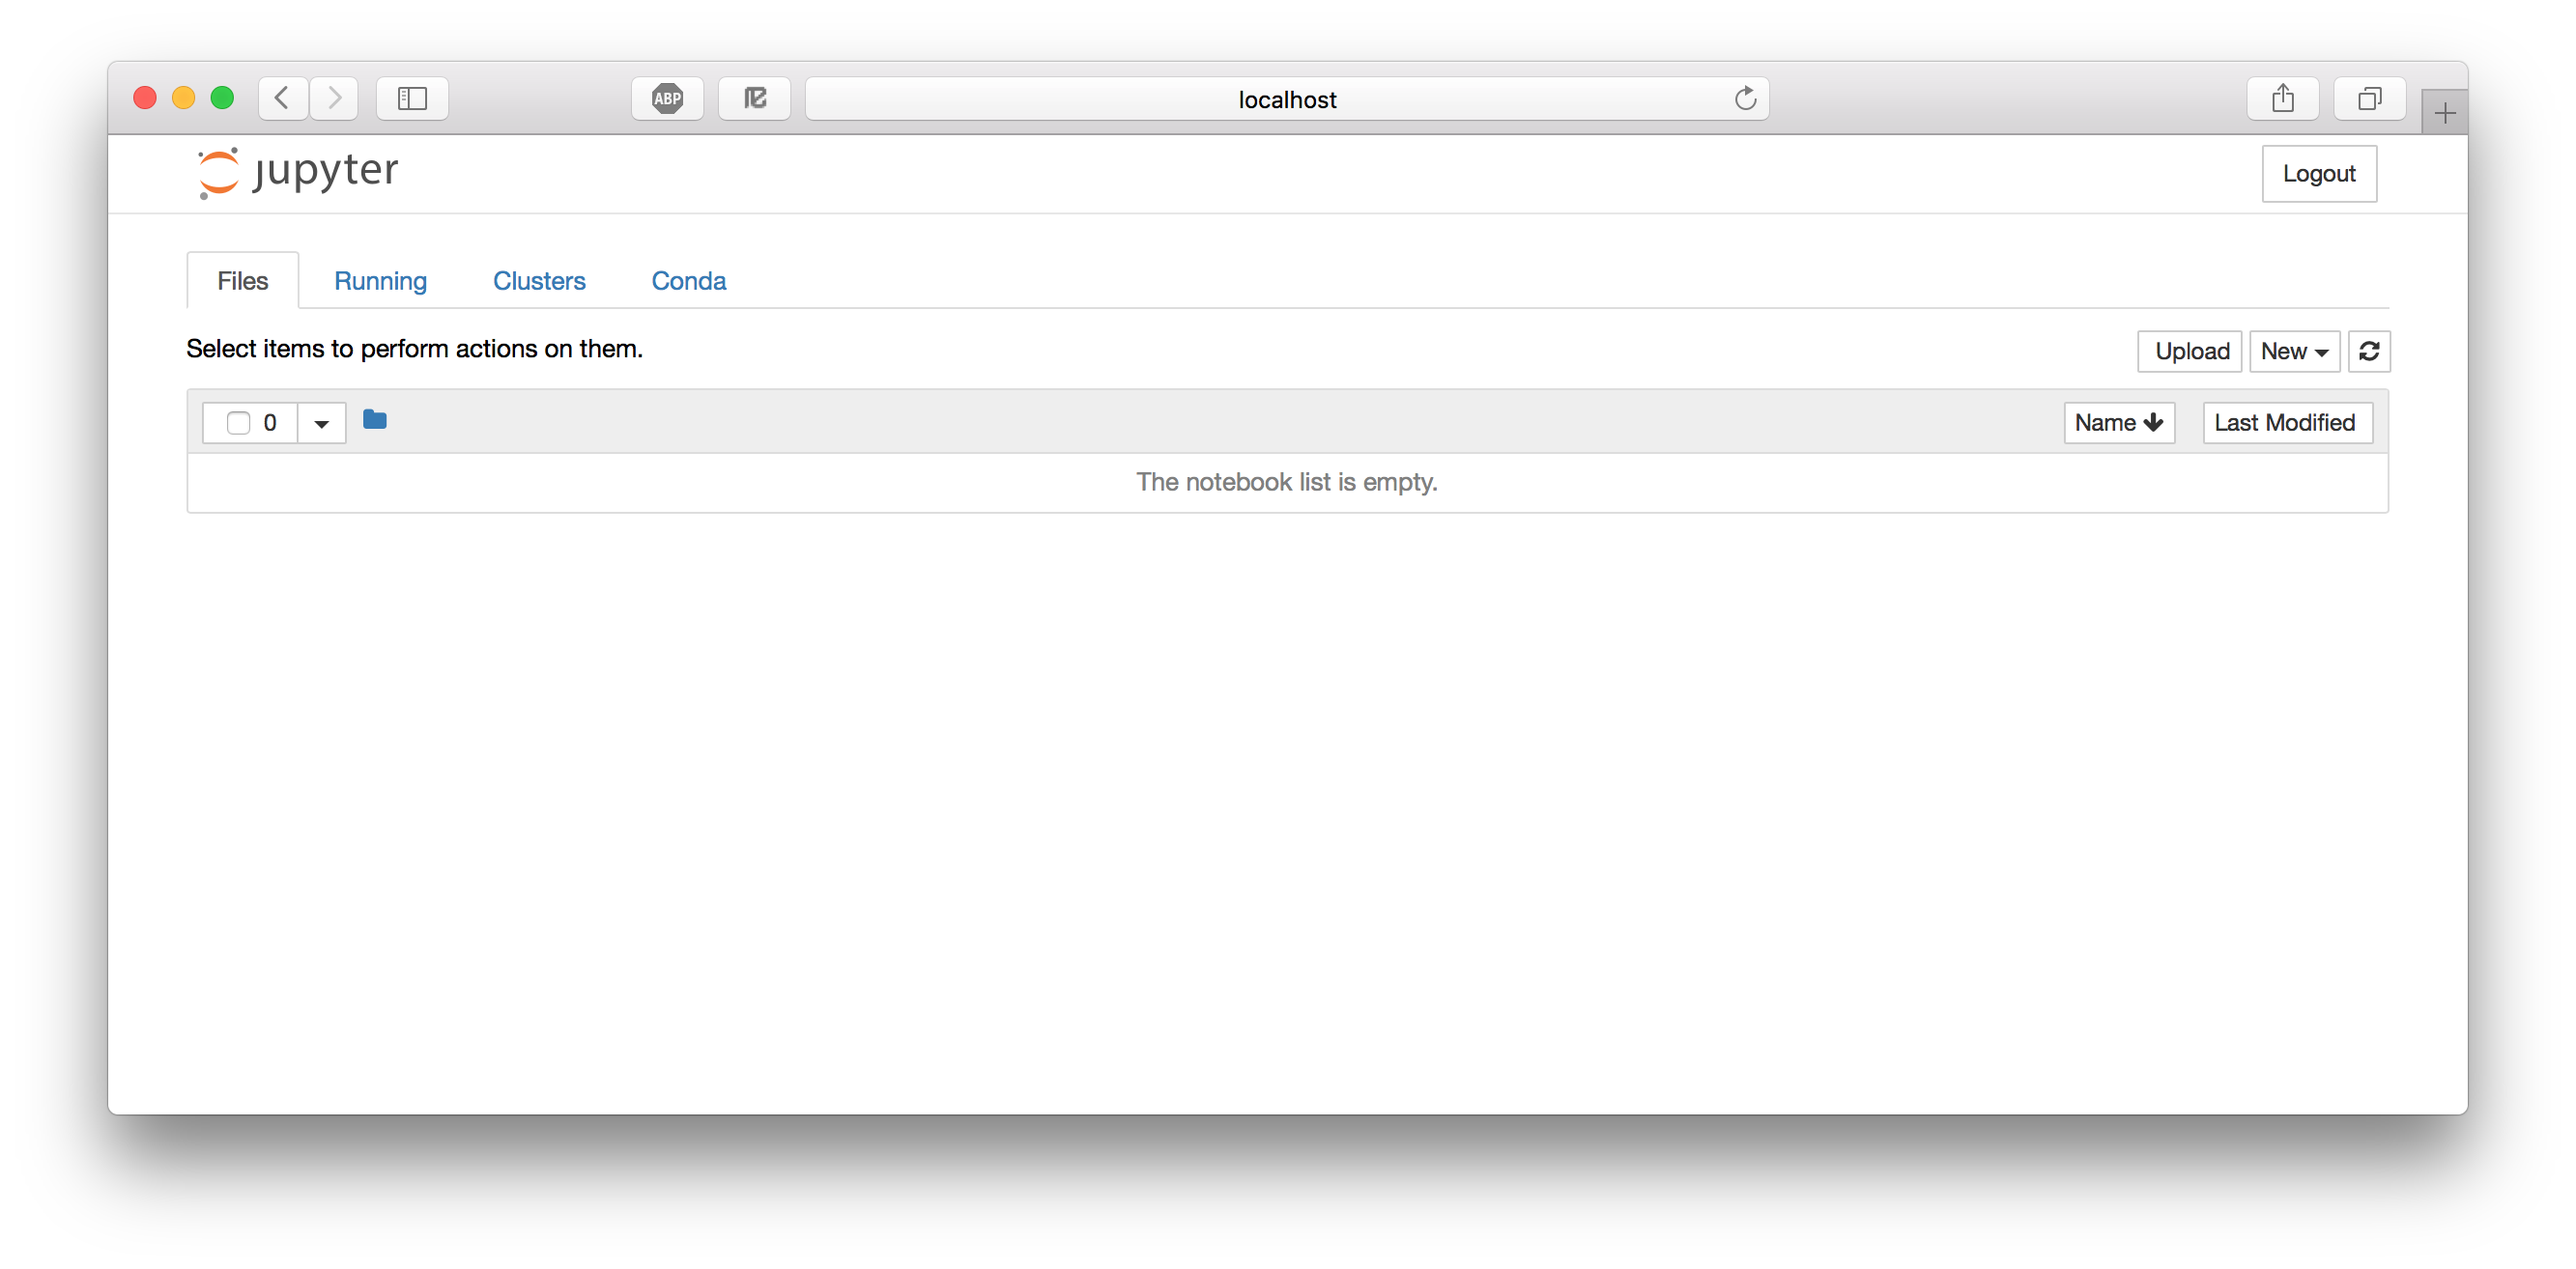
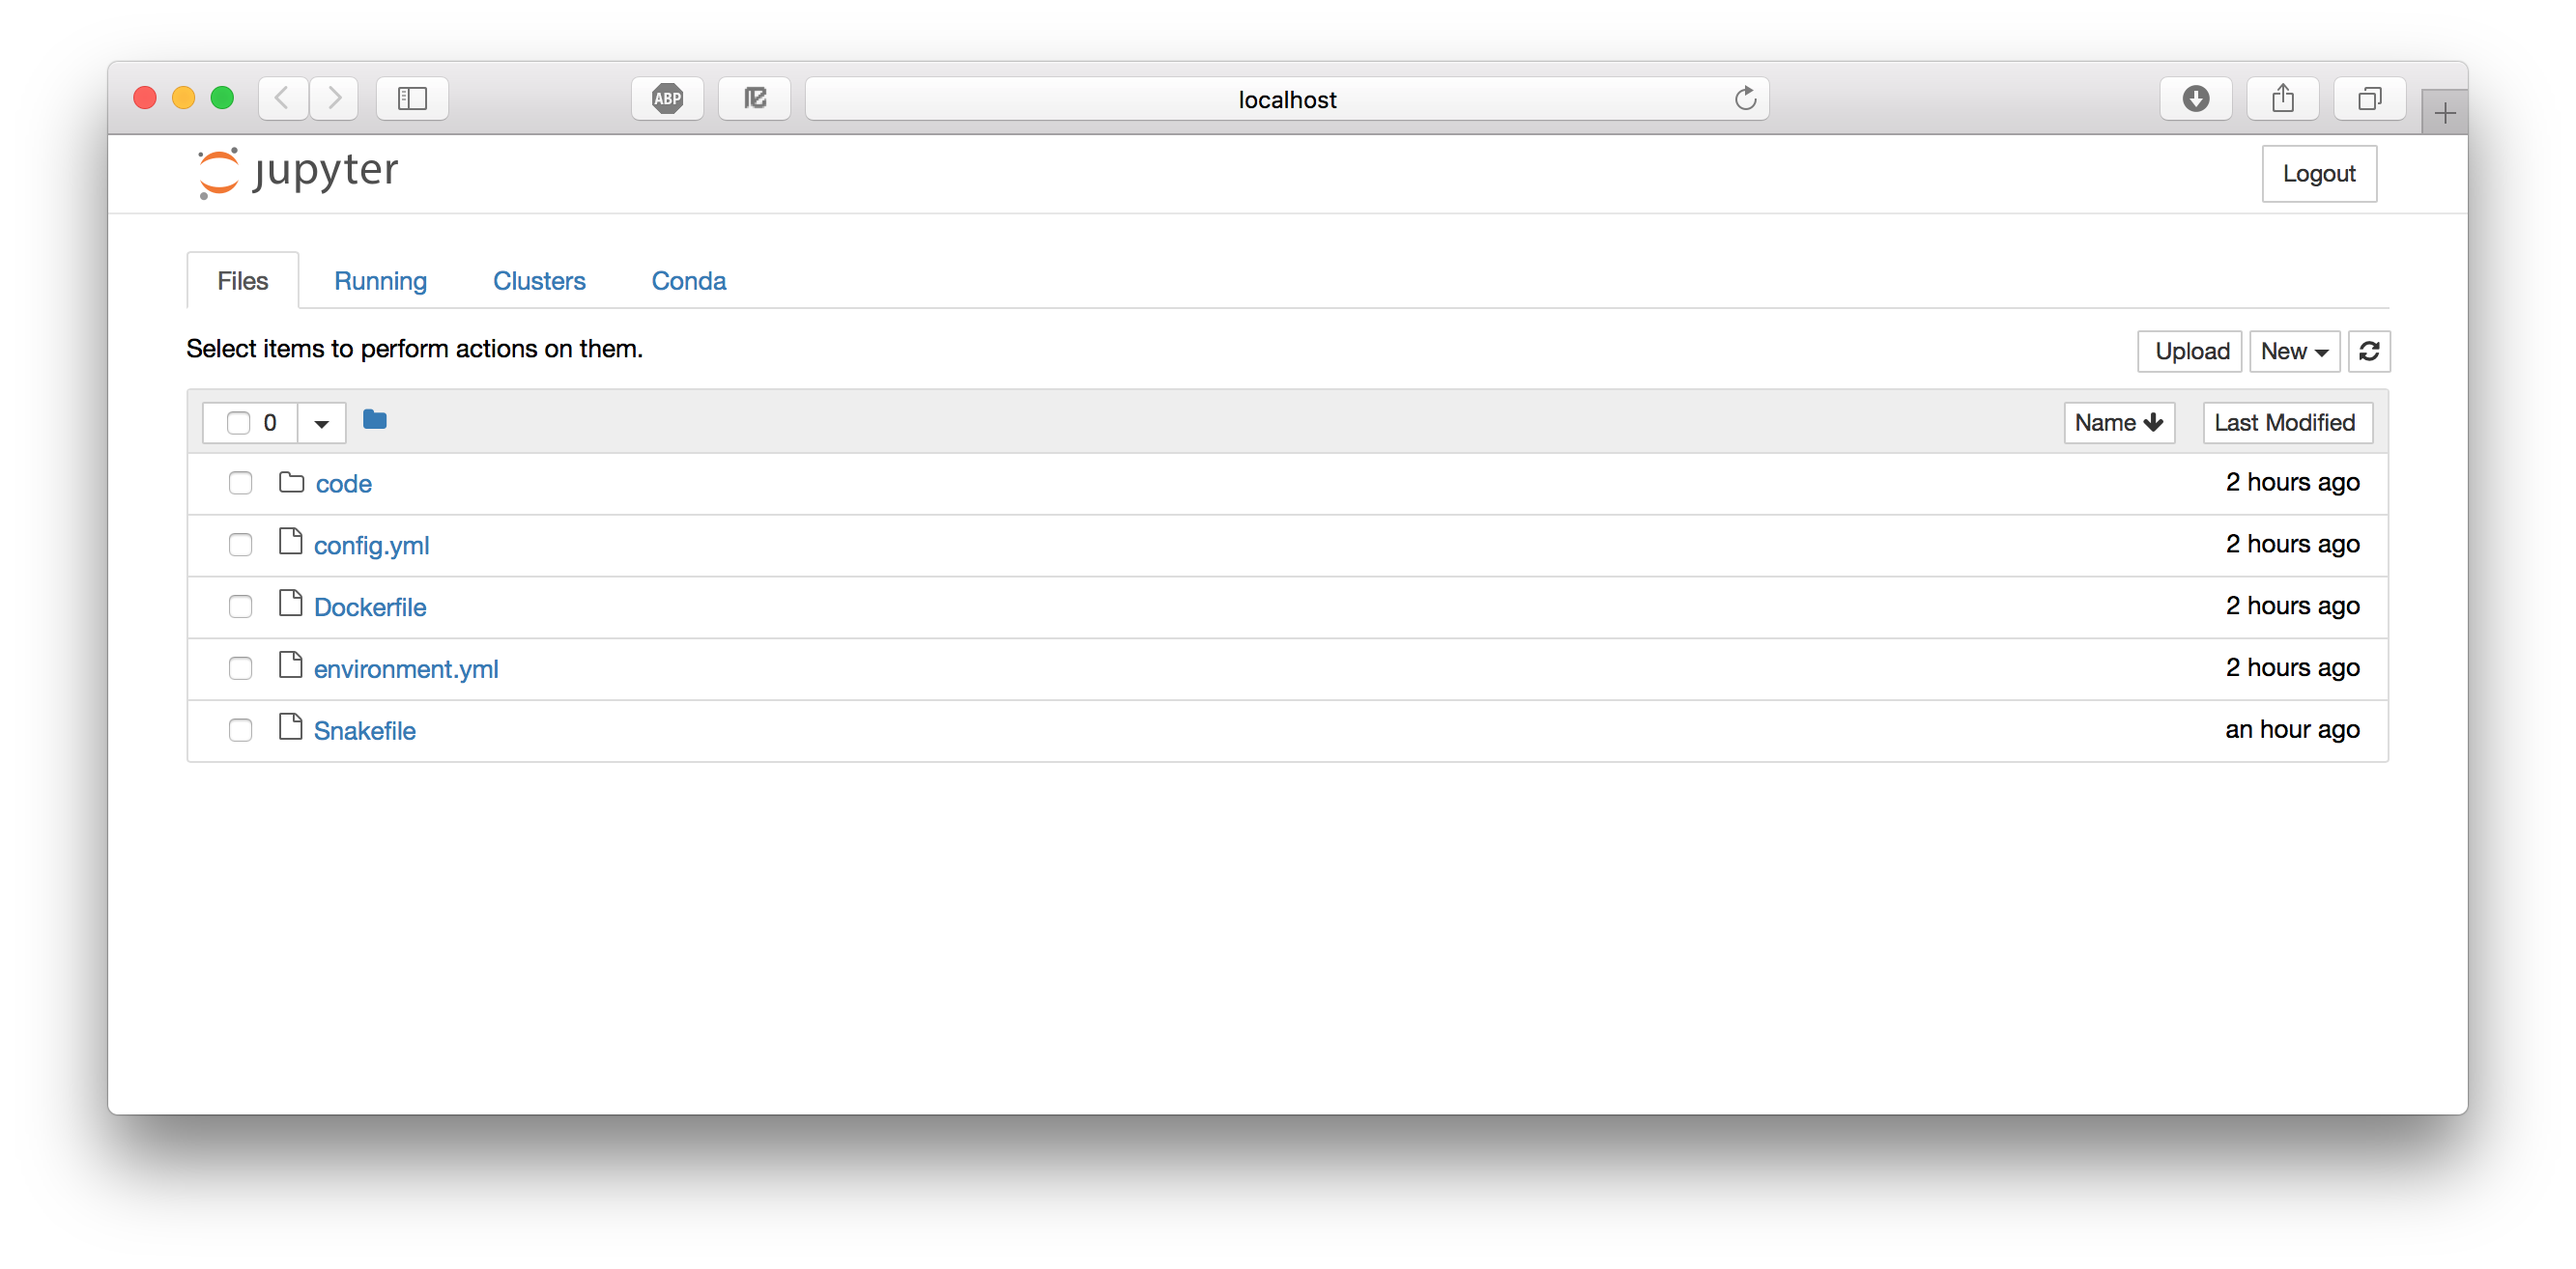
started on jupyter tutorial

diff --git a/docs/jupyter.md b/docs/jupyter.md
@@ -40,8 +40,34 @@ Jupyter Notebook probably opened up a web browser for you automatically, otherwi
 
 ![alt text](jupyter_dashboard.png)
 
-What you're looking at is the Notebook dashboard. This is where you manage your files, notebooks, and kernels. The "Files" tab is where all your files are kept and the "Running" tab keeps track of all your processes. The third tab, "Clusters", is used for parallel computing and won't be discussed further in this tutorial. The "Conda" tab lets us control our Conda environments. Let's take a look at that. You can see that I'm currently in the `jupyter_env` environment.
+What you're looking at is the Notebook dashboard. This is where you manage your files, notebooks, and kernels. The Files tab shows the files in your directory. If you've done the other tutorials the file names should look familiar; they are the files needed for running the RNA-seq workflow in Snakemake. The Running tab keeps track of all your processes. The third tab, Clusters, is used for parallel computing and won't be discussed further in this tutorial. The Conda tab lets us control our Conda environments. Let's take a quick look at that. You can see that I'm currently in the `jupyter_exercise` environment.
 
 ![alt text](jupyter_conda.png)
 
-Let's start by creating
+Let's start by creating an empty notebook by selecting the Files tab and clicking New > Notebook > Python [conda env:jupyter_exercise]. This will open up a new tab or window looking like this:
+
+![alt text](jupyter_empty_nb.png)
+
+Jupyter notebooks are made up out of cells, and you are currently standing in the first cell in your notebook. The fact that it's green indicates that it's in "editing mode" so you can write stuff. Cells in Jypyter notebooks can be of two types: markdown or code.
+
+* Markdown: These cells contain static material such as captions, text, lists, images and so on. You express this using Markdown, which is a lightweight markup language. Markdown documents can then be converted to other formats for viewing (the document you're reading now is written in Markdown and then converted to HTML). The format is discussed a little more in detail in the [R Markdown tutorial](rmarkdown.md). Jupyter Notebook uses a dialect of Markdown called GitHub Flavored Markdown, which is described [here](https://guides.github.com/features/mastering-markdown/).
+* Code: These are the cells that actually do something, just as code chunks do in R Markdown. You can write code in dozens of languages and all do all kinds of clever tricks. You then run the code cell and any output the code generates, such as text or images, will be displayed beneath the cell. We will get back to this in much more detail, but for now it's enough to understand that code cells are for executing code that is interpreted by a kernel (in this case the Python version in your Conda environment).
+
+Let's use our first cell to create a header. Change the format from Code to Markdown in the drop-down list above the cell. Double click on the cell to enter editing mode (green frame) and input "# My notebook" ("#" is used in Markdown for header 1). Run the cell with Shift-Enter. Tada (hopefully)!
+
+Before we continue, here are some shortcuts that can be useful. Note that they are only applicable when in command mode (blue frames). Most of them are also available from the menus.
+
+  * Enter key to enter Edit mode (Escape to enter Command mode)
+  * Ctrl-Enter: run the cell
+  * Shift-Enter: run the cell and select the cell below
+  * Alt-Enter: run the cell and insert a new cell below
+  * Ctrl-s: save the notebook
+  * Tab key for code completion or indentation
+  * m and y to toggle between Markdown and Code cells
+  * d-d to delete a cell
+  * z to undo deleting
+  * a/b to insert cells above/below current cell
+  * x/c/v to cut/copy/paste cells
+  * Up/Down or k/j to select previous/next cells
+  * h for help menu for keyboard shortcuts
+  * Append ? for help on commands/methods, ?? to show source
